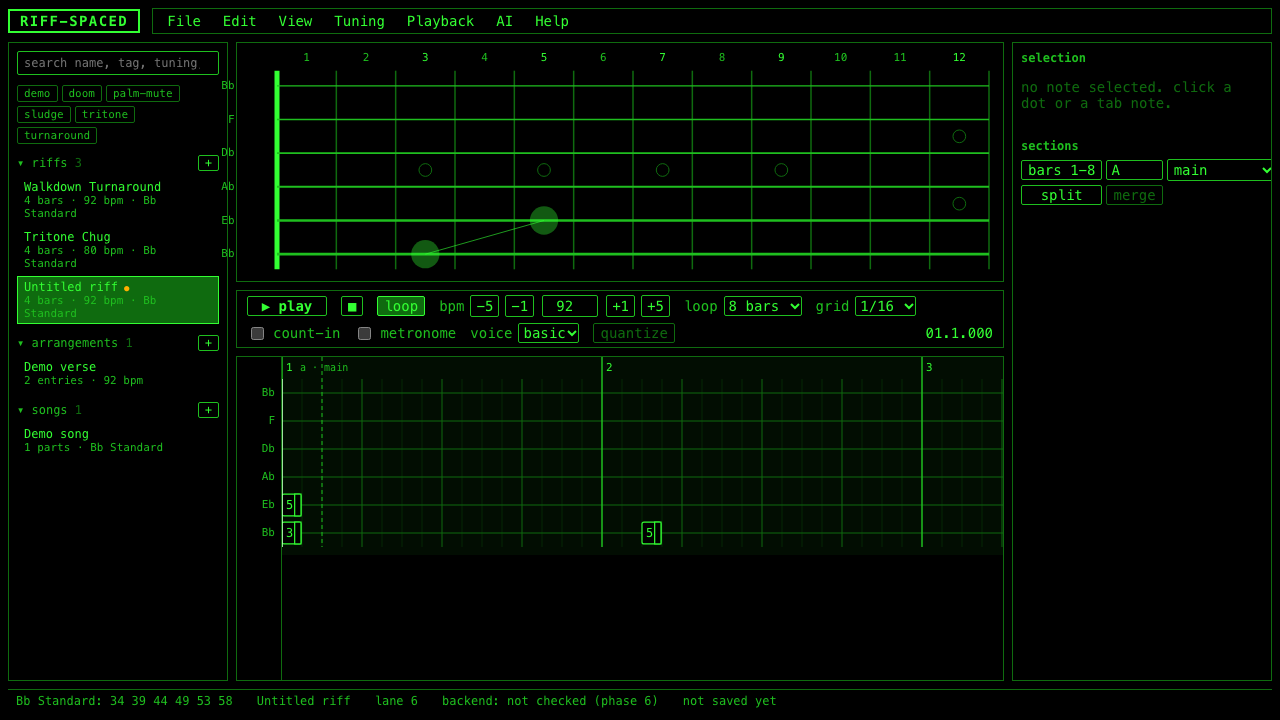
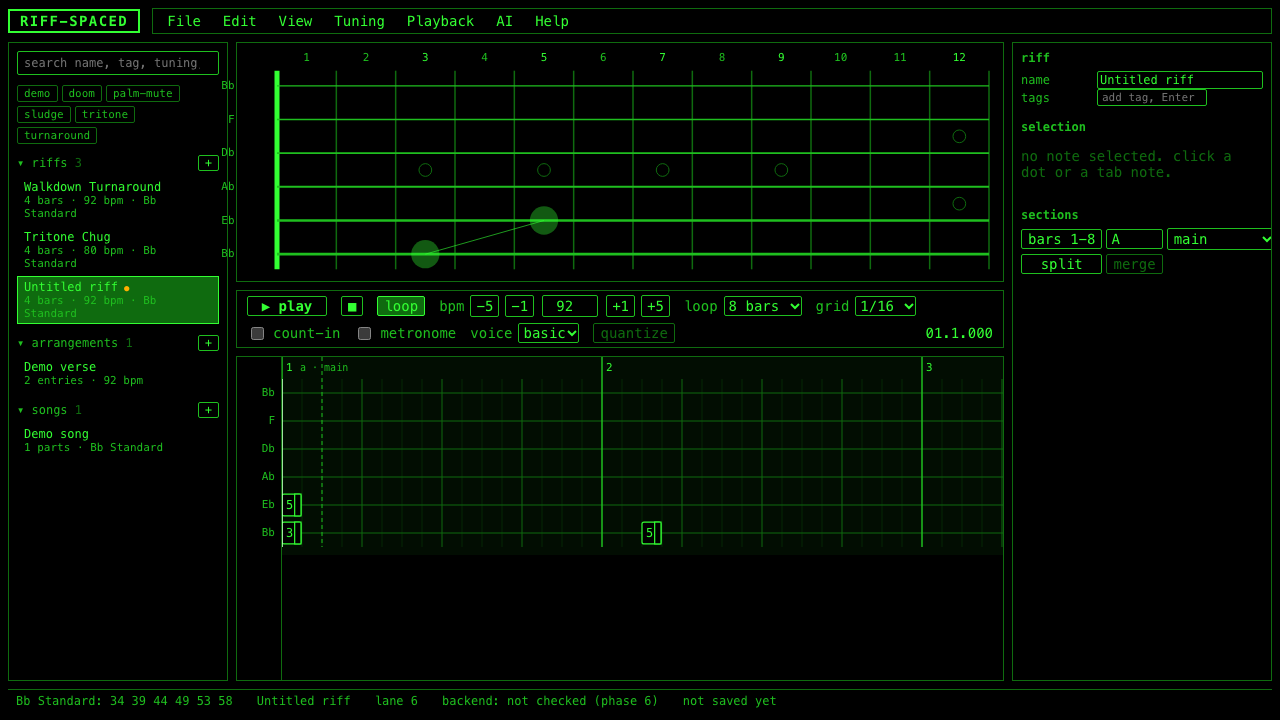
feat(library): add the end-to-end library flow, a riff name and tags panel, and close Phase 5
WHY: The phase gate is the whole catalog story in one Playwright run plus the browser pass, and the docs that explain the formats a reader will find on disk.

WHAT:
- inspector/RiffPanel.tsx: name and tags of the open riff (chips with remove, Enter or blur to add), feeding the library search and chips
- e2e/library.spec.ts: new riff with two notes, name and tag, search by tag, arrangement with two entries played back read-only, export library as a download, import into a fresh browser context with the replace answer, library identical (names, notes, tags, entry references), Help > Keyboard shortcuts; screenshots arrangement.png and library.png in docs/screenshots/phase-05/
- docs/FILE_FORMATS.md: the three tiers with examples, the bundle and merge rules, open and save behavior per browser, versioning and migration, text tab, MIDI mapping, where the code lives
- docs/LEARNING_LOG.md: Phase 5 entry with six commits; STATUS.md: Phase 5 complete, Phase 6 checklist

LEARN: A second browser context in Playwright is a fresh profile: no localStorage, no IndexedDB, nothing from the first page. Importing the exported bundle there and comparing the library is the honest version of "export and import round-trip", because it cannot pass by accident through state the first page left behind.
[…]

Changed region(s): [[0.7812, 0.0611, 0.9688, 0.3972]]

diff --git a/frontend/e2e/library.spec.ts b/frontend/e2e/library.spec.ts
@@ -1,0 +1,112 @@
+import { expect, test } from '@playwright/test';
+import { screenshotPath, watchConsole } from './helpers';
+import { menuClick } from './menu';
+
+/**
+ * The Phase 5 library story: make a riff, name and tag it, find it, sequence it into an
+ * arrangement, play the arrangement, export the library, and import it into a fresh
+ * browser profile where everything comes back identical.
+ */
+test('create, tag, search, arrange, play, export, and re-import a library', async ({
+  page,
+  browser,
+}) => {
+  const console = watchConsole(page);
+  await page.goto('/');
+  await page.evaluate(() => {
+    delete (window as unknown as { showOpenFilePicker?: unknown }).showOpenFilePicker;
+    delete (window as unknown as { showSaveFilePicker?: unknown }).showSaveFilePicker;
+  });
+
+  // New riff, two notes, a name and a tag.
+  await menuClick(page, 'file', 'file.newRiff');
+  await page
+    .getByTestId('fretboard')
+    .locator('[data-cell][data-string="6"][data-fret="1"]')
+    .click();
+  await page
+    .getByTestId('fretboard')
+    .locator('[data-cell][data-string="5"][data-fret="2"]')
+    .click({ modifiers: ['Shift'] });
+  await page.getByLabel('riff name').fill('Tritone Stab');
+  await page.getByLabel('add tag').fill('stab');
+  await page.getByLabel('add tag').press('Enter');
+  await expect(page.getByTestId('riff-panel').locator('[data-tag="stab"]')).toBeVisible();
+  await expect(page.getByTestId('library-riffs')).toContainText('Tritone Stab');
+
+  // Search by the tag and by part of the name.
+  await page.getByLabel('search library').fill('stab');
+  await expect(page.getByTestId('library-riffs')).toContainText('Tritone Stab');
+  await expect(page.getByTestId('library-riffs')).not.toContainText('Walkdown Turnaround');
+  await page.getByLabel('search library').fill('');
+
+  // An arrangement with two entries, then play it.
+  await menuClick(page, 'file', 'file.newArrangement');
+  await page.getByLabel('arrangement name').fill('Stab build');
+  await page.getByLabel('add riff to arrangement').selectOption({ label: 'Tritone Stab' });
+  await page.getByLabel('add riff to arrangement').selectOption({ label: 'Walkdown Turnaround' });
+  await expect(page.getByTestId('arrangement-meta')).toContainText('2 entries · 8 bars');
+  await expect(page.getByTestId('tab-svg')).toHaveAttribute('data-read-only', 'true');
+  await page.getByRole('button', { name: 'play' }).click();
+  await page.waitForTimeout(500);
+  await expect(page.getByTestId('position')).not.toHaveText('01.1.000');
+  await page.screenshot({ path: screenshotPath('phase-05', 'arrangement'), fullPage: true });
+  await page.keyboard.press('Space');
+
+  // Export the whole library.
+  const downloadPromise = page.waitForEvent('download');
+  await menuClick(page, 'file', 'file.exportLibrary');
+  const download = await downloadPromise;
+  const fs = await import('node:fs/promises');
+  const text = await fs.readFile((await download.path())!, 'utf8');
+  const bundle = JSON.parse(text);
+  expect(bundle.riffs.map((r: { name: string }) => r.name)).toEqual([
+    'Walkdown Turnaround',
+    'Tritone Chug',
+    'Tritone Stab',
+  ]);
+  expect(bundle.arrangements.map((a: { name: string }) => a.name)).toEqual([
+    'Demo verse',
+    'Stab build',
+  ]);
+
+  // A fresh profile starts with the demo library; importing the bundle replaces by id and adds the rest.
+  const fresh = await browser.newContext();
+  const page2 = await fresh.newPage();
+  const console2 = watchConsole(page2);
+  await page2.goto('/');
+  await page2.evaluate(() => {
+    delete (window as unknown as { showOpenFilePicker?: unknown }).showOpenFilePicker;
+  });
+  await expect(page2.getByTestId('library-riffs')).not.toContainText('Tritone Stab');
+  const chooser = page2.waitForEvent('filechooser');
+  await menuClick(page2, 'file', 'file.importLibrary');
+  await (
+    await chooser
+  ).setFiles({
+    name: 'library.riffspaced.json',
+    mimeType: 'application/json',
+    buffer: Buffer.from(text),
+  });
+  await expect(page2.getByRole('dialog')).toContainText('already in the library');
+  await page2.getByRole('button', { name: 'replace' }).click();
+  const names = await page2.evaluate(() =>
+    window.riffspaced!.store.getState().library.riffs.map((r) => r.name),
+  );
+  expect(names).toEqual(['Walkdown Turnaround', 'Tritone Chug', 'Tritone Stab']);
+  const imported = await page2.evaluate(() => window.riffspaced!.store.getState().library);
+  expect(imported.riffs[2]!.notes).toHaveLength(2);
+  expect(imported.riffs[2]!.tags).toEqual(['stab']);
+  expect(imported.arrangements[1]!.entries.map((e: { riffId: string }) => e.riffId)).toEqual(
+    bundle.arrangements[1].entries.map((e: { riffId: string }) => e.riffId),
+  );
+  await page2.screenshot({ path: screenshotPath('phase-05', 'library'), fullPage: true });
+  expect(console2.errors).toEqual([]);
+  await fresh.close();
+
+  // Help > Keyboard shortcuts renders the table.
+  await menuClick(page, 'help', 'help.shortcuts');
+  await expect(page.getByRole('dialog')).toContainText('play / stop');
+  await page.keyboard.press('Escape');
+  expect(console.errors).toEqual([]);
+});

diff --git a/frontend/src/inspector/RiffPanel.tsx b/frontend/src/inspector/RiffPanel.tsx
@@ -1,0 +1,64 @@
+import { useState } from 'react';
+import { useStore } from '@/store';
+
+/** Name and tags of the open riff (tags feed the library search and chips). */
+export function RiffPanel() {
+  const riff = useStore((s) => s.riff);
+  const currentRiffId = useStore((s) => s.currentRiffId);
+  const editing = useStore((s) => s.editing);
+  const renameItem = useStore((s) => s.renameItem);
+  const addTag = useStore((s) => s.addTag);
+  const removeTag = useStore((s) => s.removeTag);
+  const [draft, setDraft] = useState('');
+  if (editing !== 'riff' || !currentRiffId) return null;
+
+  const commitTag = () => {
+    const tag = draft.trim();
+    if (tag) addTag('riffs', currentRiffId, tag);
+    setDraft('');
+  };
+
+  return (
+    <div data-testid="riff-panel">
+      <h3>riff</h3>
+      <label className="inspector__field">
+        <span>name</span>
+        <input
+          aria-label="riff name"
+          value={riff.name}
+          onChange={(e) => renameItem('riffs', currentRiffId, e.target.value)}
+        />
+      </label>
+      <div className="inspector__field">
+        <span>tags</span>
+        <div className="inspector__tags">
+          {(riff.tags ?? []).map((t) => (
+            <span key={t} className="inspector__tag" data-tag={t}>
+              {t}
+              <button
+                type="button"
+                aria-label={`remove tag ${t}`}
+                onClick={() => removeTag('riffs', currentRiffId, t)}
+              >
+                ×
+              </button>
+            </span>
+          ))}
+          <input
+            aria-label="add tag"
+            placeholder="add tag, Enter"
+            value={draft}
+            onChange={(e) => setDraft(e.target.value)}
+            onKeyDown={(e) => {
+              if (e.key === 'Enter') {
+                e.preventDefault();
+                commitTag();
+              }
+            }}
+            onBlur={commitTag}
+          />
+        </div>
+      </div>
+    </div>
+  );
+}

diff --git a/frontend/src/inspector/inspector.css b/frontend/src/inspector/inspector.css
@@ -94,3 +94,31 @@
   background: var(--color-dim);
   border-color: var(--color-fg);
 }
+
+.inspector__tags {
+  display: flex;
+  flex-wrap: wrap;
+  gap: 4px;
+  align-items: center;
+}
+
+.inspector__tag {
+  display: inline-flex;
+  align-items: center;
+  gap: 2px;
+  padding: 0 4px;
+  border: 1px solid var(--color-dim);
+  font-size: 11px;
+}
+
+.inspector__tag button {
+  border: none;
+  padding: 0 2px;
+  line-height: 1;
+}
+
+.inspector__tags input {
+  width: 110px;
+  padding: 1px 4px;
+  font-size: 11px;
+}

diff --git a/frontend/src/inspector/Inspector.tsx b/frontend/src/inspector/Inspector.tsx
@@ -1,4 +1,5 @@
 import { NotePanel } from './NotePanel';
+import { RiffPanel } from './RiffPanel';
 import { SectionsPanel } from './SectionsPanel';
 import './inspector.css';
 
@@ -6,6 +7,7 @@ import './inspector.css';
 export function Inspector() {
   return (
     <div className="inspector" data-testid="inspector">
+      <RiffPanel />
       <NotePanel />
       <SectionsPanel />
     </div>

diff --git a/docs/FILE_FORMATS.md b/docs/FILE_FORMATS.md
@@ -1,0 +1,82 @@
+# File formats
+
+What RIFF-SPACED reads and writes (Phase 5). Every document is plain JSON with a `format` and an integer `version`; the schemas in `shared/schema/` are the formal definitions and both the browser and the Python backend validate against them.
+
+| Extension | Format | Holds |
+|---|---|---|
+| `.riff.json` | `riff-spaced/riff` | one riff: tuning, tempo, length, sections, notes |
+| `.arr.json` | `riff-spaced/arrangement` | an ordered list of riff references with repeats and transpose |
+| `.song.json` | `riff-spaced/song` | a tuning and an ordered list of arrangement parts |
+| `.riffspaced.json` | `riff-spaced/library` | everything: riffs, arrangements, songs (autosave, export, backup) |
+| `.tab.txt` | text | ASCII tab, export only |
+| `.mid` | Standard MIDI File | export only |
+
+## The three tiers
+
+A **riff** is the unit of music: 4, 8, 12 or 16 bars of notes on a tuned guitar. Notes carry `string` (guitarist numbering, 1 is highest), `fret`, `start` and `duration` in ticks at 480 per quarter note, a velocity, techniques, an optional `chordId` that groups a dyad or chord (members must share a `start`), and two fields the importer and the transpose tools set: `confidence` (below 0.6 draws amber) and `unplayable` (hollow amber, silent in playback, never deleted).
+
+```json
+{
+  "format": "riff-spaced/riff", "version": 1,
+  "id": "demo-riff-walkdown", "name": "Walkdown Turnaround",
+  "tuning": { "name": "Bb Standard", "pitches": [34, 39, 44, 49, 53, 58] },
+  "tempo": { "bpm": 92 }, "timeSignature": { "beats": 4, "unit": 4 }, "ppq": 480,
+  "lengthBars": 4,
+  "sections": [{ "id": "s1", "label": "A", "startBar": 0, "lengthBars": 4, "kind": "main" }],
+  "notes": [{ "id": "n1", "string": 6, "fret": 3, "start": 240, "duration": 240, "velocity": 100,
+              "techniques": ["palmMute"], "chordId": "c1" }],
+  "tags": ["sludge", "turnaround"], "source": { "type": "manual" }
+}
+```
+
+An **arrangement** sequences riffs by id. Each entry has `repeats` and a `transpose` in semitones (applied as a shape shift: frets move, strings stay; a fret that would leave the neck is flagged unplayable). All riffs in one arrangement share a tuning; the app refuses a mismatch and, from Phase 8, offers to retune the riff keeping its pitches.
+
+```json
+{ "format": "riff-spaced/arrangement", "version": 1, "id": "demo-arr-verse", "name": "Demo verse",
+  "tempo": { "bpm": 92 },
+  "entries": [{ "riffId": "demo-riff-walkdown", "repeats": 3, "transpose": 0, "label": "Walkdown x3" },
+              { "riffId": "demo-riff-tritone", "repeats": 1, "transpose": 0, "label": "Tritone" }] }
+```
+
+A **song** lists arrangements as parts with labels and free-text notes. Playback plays the parts back to back at the first arrangement's tempo (a tempo map is backlog).
+
+References are by id, not by copy: edit a riff and every arrangement that uses it plays the new version. The app shows arrangements and songs as a flattened read-only timeline; edits happen in the source riff.
+
+## The library bundle
+
+`{ format, version, exportedAt, riffs, arrangements, songs }`. Autosave writes it to `localStorage["riffspaced.library.v1"]` 500 ms after the last change, with the id of the open riff alongside so a reload lands where you were. File > Export library writes the same bundle to a file; File > Import library merges one in.
+
+Merging asks one question when ids collide: **replace** overwrites the existing copies, **keep both** gives the incoming duplicates new ids and renames them `(imported)`, rewriting the arrangement entries and song parts inside the same import so the copies still point at each other.
+
+## Open and save
+
+Chrome (and other browsers with the File System Access API) gets real file pickers and keeps the file handle in IndexedDB, so File > Save overwrites the same file without asking and still works after a reload. Everywhere else, Open uses a hidden file input and Save downloads the file; Save as always asks. File > Recent lists the last ten names.
+
+## Versioning and migration
+
+`version` is an integer per format. `frontend/src/model/migrate.ts` and `backend/riffspaced/model/migrate.py` upgrade older documents before validation, one guarded step per version; `shared/fixtures/legacy/riff-v0.json` is the fixture that proves the mechanism (v0 had `bars` instead of `lengthBars` and no sections). A document from a newer version is refused with a clear message rather than guessed at. Validation and migration are separate on purpose: migration reshapes without judging, validation judges one shape.
+
+## Text tab
+
+One character per sixteenth, string 1 on top, open-string names at the left, `|` at bar lines, fret numbers at their sixteenth (two-digit frets right-aligned over the previous column), `p` under palm-muted columns on a legend line, four bars per system. Durations are not drawn. Edit > Copy as text tab puts the same text on the clipboard.
+
+```
+Bb|----------------|----------------|----------------|----------------|
+ F|----------------|----------------|----------------|----------------|
+Db|----------------|----------------|----------------|----------------|
+Ab|--------------5-|--------------5-|--------------5-|----------------|
+Eb|--5-5-5-5-5-5-5-|5-5-5-5-5-5-5-5-|5-5-5-5-5-5-5-5-|5---------------|
+Bb|0-3-3-3-3-3-3---|3-3-3-3-3-3-3---|3-3-3-3-3-3-3---|5-5-4-4-3-3-2-2-|
+  |p-p-p-p-p-p-p-p-|p-p-p-p-p-p-p-p-|p-p-p-p-p-p-p-p-|p-p-p-p-p-p-p-p-|
+```
+
+## MIDI mapping
+
+Format 0, one track, 480 PPQ (the same ticks as the riff, so no rounding). Track name, tempo and 4/4 meta events, program change 30 (General MIDI distortion guitar), then note on/off per note with running status. Pitch is the sounding MIDI number from the tuning. Palm mute becomes a note half as long; other techniques are not expressed. Unplayable notes are left out. The export dialog offers one channel per string (string N on channel N-1), which lets a DAW split the strings onto separate instruments.
+
+## Where the code lives
+
+- `frontend/src/model/`: types, validation, migration, factories
+- `frontend/src/storage/`: pickers and fallbacks, handles, recents, document parsing and merging
+- `frontend/src/export/`: text tab, MIDI, WAV (Phase 8), MusicXML (Phase 8)
+- `backend/riffspaced/model/`: the Python mirror of types, validation and migration

diff --git a/STATUS.md b/STATUS.md
@@ -1,9 +1,9 @@
 # STATUS
 
-Updated: 2026-10-25T02:57:40Z
-Phase: 5 Files and library
-Last completed task: P5.T6 MIDI export
-Next task: P5.T7 e2e, Chrome verification, phase exit
+Updated: 2026-10-25T03:00:00Z
+Phase: 5 Files and library (complete), starting Phase 6 Analysis backend
+Last completed task: P5.T7 e2e, Chrome verification, phase exit
+Next task: P6.T1 Audio I/O and preprocessing (after the Phase 6 preflight on audio content blocks)
 
 ## Preflight
 claude: 2.1.310 | node: v26.0.0 | npm: 11.12.1 | python3: 3.14.7 (backend pins 3.12 via uv) | uv: 0.12.5 | gh: 2.92.0, logged in as RidleyDiSiena, https | git: 2.54.0 | docker: 29.4.1 (daemon running) | ffmpeg: 9.0.1 | chrome tools: available (console reads work, screenshot injection times out on the dev page, see Known issues)
@@ -57,20 +57,34 @@ Phase 4 (tag v0.4.0):
 - [x] P4.T6 Offline render and non-silence test
 - [x] P4.T7 Chrome verification and phase exit
 
-Phase 5:
+Phase 5 (tag v0.5.0):
 - [x] P5.T1 Menu bar and dialogs
 - [x] P5.T2 Library store and panel
 - [x] P5.T3 Arrangement and song editors
 - [x] P5.T4 File open and save
 - [x] P5.T5 Text tab export
 - [x] P5.T6 MIDI export
-- [ ] P5.T7 e2e, Chrome verification, phase exit
+- [x] P5.T7 e2e, Chrome verification, phase exit
+
+Phase 6:
+- [ ] Preflight: re-check the Messages API for an audio content block
+- [ ] P6.T1 Audio I/O and preprocessing
+- [ ] P6.T2 Test-signal synth (ground truth generator)
+- [ ] P6.T3 STFT and onset detection
+- [ ] P6.T4 Tempo estimation
+- [ ] P6.T5 Fingering-constrained spectral template matching
+- [ ] P6.T6 Viterbi decode, quantize, emit
+- [ ] P6.T7 Benchmark harness
+- [ ] P6.T8 Ingest CLI and API endpoints
+- [ ] P6.T9 Frontend import flow
+- [ ] P6.T10 Real recordings (skip and continue if backend/audio_in is empty, DECISIONS 39)
+- [ ] P6.T11 Chrome verification and phase exit
 
 ## How to run right now
 ```
 cd frontend && npm install && npm run dev   # http://localhost:5173
 npm run check                              # lint, format, typecheck, unit tests, build
-npm run e2e                                # Playwright: smoke, fretboard, editor, playback, split view, render specs
+npm run e2e                                # Playwright: 10 specs (smoke, fretboard, editor, playback, split view, render, files, library)
 # dev harness: http://localhost:5173/#/dev/fretboard
 
 cd backend && make install && make dev     # http://localhost:8000/health, /docs

diff --git a/docs/LEARNING_LOG.md b/docs/LEARNING_LOG.md
@@ -71,3 +71,18 @@ Read these commits:
 - `6733667` feat(playback): the engine, and why "I want to play" and "it is playing" are different fields.
 - `169e8fc` feat(playback): visuals read the audio clock; two UI traps (overflow hides controls, a checkbox is not a text field).
 - `a3e7b71` feat(audio): offline rendering by swapping the clock, and the WAV header by hand.
+
+## Phase 5: files are the product
+
+Built: the full menu bar with themed confirm, prompt, form and info dialogs and toasts, the library panel with search, tags, context menu and drag-append, arrangement and song editors over a flattened read-only timeline, open and save through the File System Access API with download and file-input fallbacks, library import with replace or keep-both merging, recents, ASCII tab export with golden files, a hand-written MIDI writer with a test reader, and `docs/FILE_FORMATS.md`.
+
+Key idea: the formats were fixed in Phase 1 and never changed; everything in this phase is a way to move them. Arrangements reference riffs by id and are flattened on the fly, so there is one copy of every note. Open and save hide two different browser capabilities behind one interface. The exports are small enough to write by hand, and the tests for them (goldens for tab, a reader for MIDI) check the output means what it should, not just that it was produced.
+
+Read these commits:
+
+- `9a94a28` feat(menu): the menu as data, with unbuilt items disabled and labeled by phase.
+- `06d099b` feat(library): delete cascades and the tuning check, where a library earns trust.
+- `05c01e4` feat(arrangement): flattening as a memoized view, ids namespaced per repeat.
+- `6432053` feat(storage): one interface over pickers and downloads; keep-both rewrites references.
+- `08d1c46` feat(export): the golden that caught the author, not the code.
+- `c8643d4` feat(export): variable-length quantities and running status, verified by a forty-line reader.
